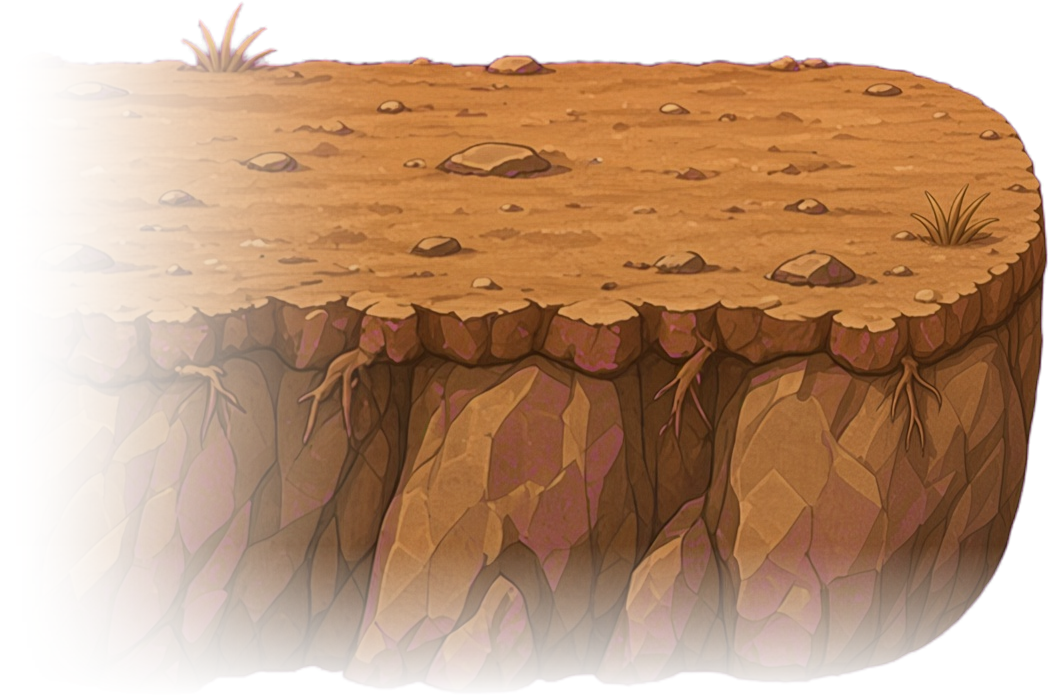
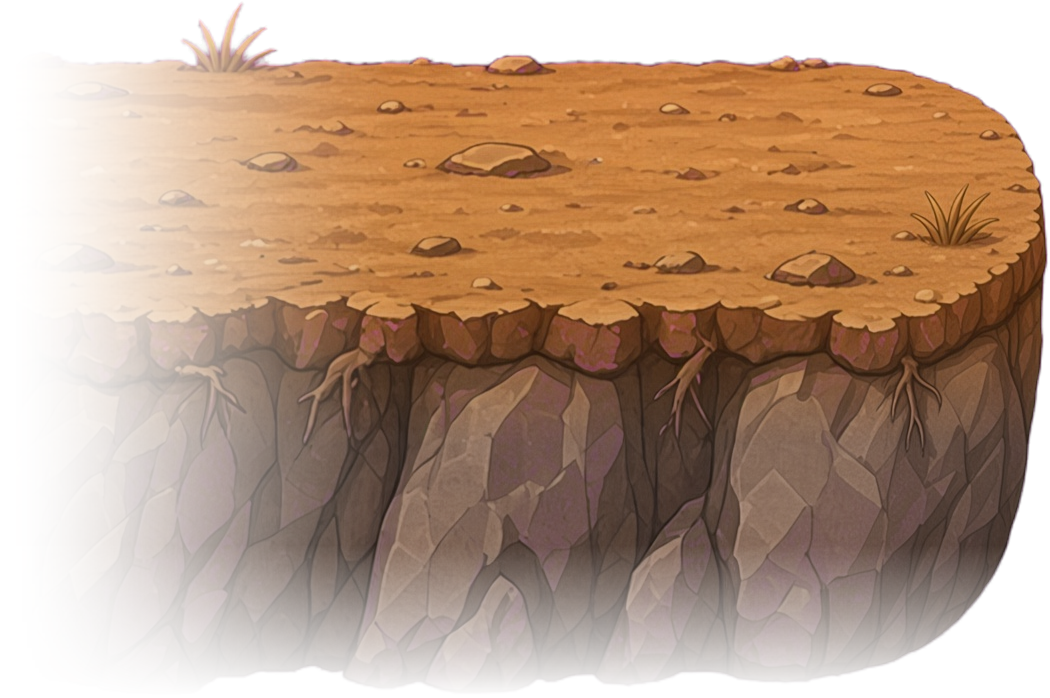
Schacht-hoek: schone bovenrand, koelere klif, doorlopende voorrand
Drie dingen rond de ronde hoek bovenin de schacht:
- de band stopt nu net binnen de kloofrand, zodat zijn rechte kruin niet meer
  boven de ronde hoek uitsteekt (de "rare hoek rechtsboven"); het hoekstuk
  dekt de rest af, met de snede in zijn ondoorzichtige midden;
- de grijze rots in de soil-zone aan de kloofkant wordt op het silhouet van de
  soil weggeknipt, zodat de hoek tegen de lucht rondt in plaats van tegen een
  grijze driehoek. Onder de voorrand blijft alle rots staan, dus de klif wordt
  volledig gesteund (geen doorschijnende plekken);
- de klif van het hoekstuk was te warm/rood naast de grijze wand; tools/
  schacht_hoek.py koelt hem nu met de diepte naar een grijstint, zodat hij op
  de wandrots lijkt. De soil blijft de grondkleur.

Claude-Session: https://claude.ai/code/session_019B4uZSWaKqeYEEdmPZdMnc

Changed region(s): [[0.579, 0.5716, 0.9448, 0.8424], [0.3352, 0.5716, 0.6095, 0.8424], [0.9143, 0.7221, 0.9448, 0.7521]]

diff --git a/amir-king-of-africa.html b/amir-king-of-africa.html
@@ -4443,25 +4443,57 @@ function grotMassa(R, X, Y, ch, scale, groundY, schacht){
   // binnen het silhouet van elk stuk. De tanden komen er in drawGrotten langs (schachtTanden).
   if (schacht){
     const tile = plafondVulTegel(); if (!tile) return;
+    const hd = schachtHoekData(R, X, Y, ch);          // de ronde hoek bovenin
+    const img = schachtHoekPic();
+    const tw = tile.width, th = tile.height, ax = X(0), ay = Y(0);
     for (const u of grotStukken(R)){
       const xl = X(u.c), xr = X(u.e + 1);
       // Geen terras-overstek boven de celrand: bij een gewoon terras steekt het steen tot boven de
       // looplijn uit voor het bovenvlak, maar hier ligt de savanne-kap (schachtKap) als bovenvlak op
-      // de wand. Stak het steen daar bovenuit, dan piekte er een grijze rotsrand boven het gras, over
-      // de hele wandtop. Het steen stopt nu op de celrand (de kaplijn) en de kap dekt het af. Bovenin
-      // dekken de savanneband en het ronde hoekstuk (schachtKap) de rots aan de kloofrand af.
+      // de wand. Het steen stopt op de celrand (de kaplijn) en de kap dekt het af.
       const top = Y(u.r) - ch;
       const diep = u.b === R.n - 1 ? Math.max(Y(u.b), Math.round(groundY)) : Y(u.b);
       const bottom = diep + 4;
-      ctx.save();
-      // De zijkanten blijven recht (geen grotSilPad): de tanden (schachtTanden) zijn hier de afwerking
-      // van de rand en zitten op de celrand. Recht gevuld sluiten de tanden vlak op het steen aan.
-      ctx.beginPath(); ctx.rect(xl, top - 4, xr - xl, bottom - (top - 4)); ctx.clip();
-      const tw = tile.width, th = tile.height, ax = X(0), ay = Y(0);
-      const bx = Math.round(ax - Math.ceil((ax - xl) / tw) * tw);
-      const by = Math.round(ay - Math.ceil((ay - (top - 4)) / th) * th);
-      for (let y = by; y < bottom; y += th) for (let x = bx; x < xr; x += tw) ctx.drawImage(tile, x, y);
-      ctx.restore();
+      const vul = (g, ox, oy) => {
+        const bx = Math.round(ax - Math.ceil((ax - xl) / tw) * tw);
+        const by = Math.round(ay - Math.ceil((ay - (top - 4)) / th) * th);
+        for (let y = by; y < bottom; y += th) for (let x = bx; x < xr; x += tw) g.drawImage(tile, x - ox, y - oy);
+      };
+      // Grenst dit stuk aan de kloof? Dan ligt er in de soil-zone (boven de kruimelige voorrand) aan de
+      // kloofkant een grijze rotsdriehoek naast de ronde hoek. Die knippen we weg op het silhouet van de
+      // soil van het hoekstuk, zodat de hoek tegen de lucht rondt. Onder de voorrand blijft ALLE rots staan
+      // (de klif wordt volledig door rots gesteund, geen doorschijnende plekken).
+      const gapR = hd && img && u.e + 1 < R.kol && !grotVol(R, u.e + 1, u.r);
+      const gapL = hd && img && u.c - 1 >= 0 && !grotVol(R, u.c - 1, u.r);
+      if (gapR || gapL){
+        const ox = Math.round(xl) - 2, oy = Math.round(top - 4) - 2;
+        const cw = Math.ceil(xr - ox) + 4, chh = Math.ceil(bottom - oy) + 4;
+        const rc = document.createElement('canvas'); rc.width = cw; rc.height = chh;
+        const rg = rc.getContext('2d'); vul(rg, ox, oy);
+        const mk = document.createElement('canvas'); mk.width = cw; mk.height = chh;
+        const mg = mk.getContext('2d'); mg.fillStyle = '#fff';
+        const lipY = Math.round(hd.yLip) - oy, aTopY = Math.round(hd.aTop) - oy;
+        mg.fillRect(0, lipY, cw, chh - lipY);         // onder de voorrand: alle rots
+        if (gapR){                                    // kloof rechts: de bandkant is links
+          const sprL = Math.round(xr) - hd.hw - ox;
+          mg.fillRect(0, 0, Math.max(0, sprL), lipY);
+          mg.drawImage(img, 0, 0, SCHACHT_HOEK.w, SCHACHT_HOEK.lip, sprL, aTopY, hd.hw, hd.soilH);
+        }
+        if (gapL){                                    // kloof links: de bandkant is rechts, de soil gespiegeld
+          const sprL = Math.round(xl) - ox;
+          mg.fillRect(sprL + hd.hw, 0, Math.max(0, cw - (sprL + hd.hw)), lipY);
+          mg.save(); mg.translate(sprL + hd.hw, 0); mg.scale(-1, 1);
+          mg.drawImage(img, 0, 0, SCHACHT_HOEK.w, SCHACHT_HOEK.lip, 0, aTopY, hd.hw, hd.soilH);
+          mg.restore();
+        }
+        rg.globalCompositeOperation = 'destination-in'; rg.drawImage(mk, 0, 0);
+        ctx.drawImage(rc, ox, oy);
+      } else {
+        ctx.save();
+        ctx.beginPath(); ctx.rect(xl, top - 4, xr - xl, bottom - (top - 4)); ctx.clip();
+        vul(ctx, 0, 0);
+        ctx.restore();
+      }
     }
     return;
   }
@@ -4651,11 +4683,18 @@ function schachtKap(R, X, Y, ch, scale, cx){
   const band = (EDGE.solid - EDGE.walk) * s;         // zichtbare savanneband
   const bottom = surf + band + ch * 0.8;             // de aarde loopt een stuk door en vervaagt in de rots
   const fade = band * 0.6 + ch * 0.8;                // over dit stuk vervaagt de aarde onderaan
+  // De band stopt net binnen de kloofrand, zodat zijn rechte kruin niet boven de ronde hoek uitsteekt (de
+  // "rare hoek"): het hoekstuk dekt de rest tot de kloofrand af. De snede valt in het ondoorzichtige midden
+  // van de hoek, dus je ziet er niets van. inset is een halve hoekbreedte.
+  const hd = schachtHoekData(R, X, Y, ch);
+  const inset = hd ? hd.hw * 0.5 : 0;
   // De savanne eerst op een los canvas tekenen en daar de onderkant wegvagen (destination-out), en dat dan
   // overzetten: zo komt de ROTS eronder tevoorschijn. Een destination-out op het hoofdcanvas zou door de
   // rots heen naar de lucht gummen, en dat gaf de lichte band aan de voet van de kap.
   for (const [c0, c1] of grotReeksH(R, tr, (c, r) => grotVol(R, c, r))){
-    const xl = Math.round(X(c0)), xr = Math.round(X(c1 + 1));
+    let xl = Math.round(X(c0)), xr = Math.round(X(c1 + 1));
+    if (hd && c1 + 1 < R.kol && !grotVol(R, c1 + 1, tr)) xr -= inset;   // kloof rechts: de hoek neemt het over
+    if (hd && c0 - 1 >= 0 && !grotVol(R, c0 - 1, tr)) xl += inset;      // kloof links
     const w = xr - xl, hh = Math.round(bottom - top + 6);
     if (w <= 0 || hh <= 0) continue;
     const cv2 = document.createElement('canvas'); cv2.width = w; cv2.height = hh;

diff --git a/tools/schacht_hoek.py b/tools/schacht_hoek.py
@@ -94,6 +94,19 @@ def main():
         for x in range(w):
             r, g, b, a = px[x, y]
             if a: px[x, y] = (round(r * rr[0]), round(g * rr[1]), round(b * rr[2]), a)
+    # de klif (onder de lip) is te warm/rood naast de grijze schachtwand: trek hem naar een koele grijstint,
+    # oplopend met de diepte zodat de soil-rand bij de lip ongemoeid blijft. mengen naar de luminantie met een
+    # koele weging (minder rood, iets meer blauw), zodat de klif op de grijze rots van de wand lijkt.
+    for y in range(lip, h):
+        amt = 0.52 * max(0.0, min(1.0, (y - lip) / (0.35 * (h - lip))))   # 0 bij de lip -> vol dieper
+        for x in range(w):
+            r, g, b, a = px[x, y]
+            if not a: continue
+            lum = 0.3 * r + 0.59 * g + 0.11 * b
+            gr = (lum * 0.90, lum * 0.90, lum * 1.02)                     # koele grijstint
+            px[x, y] = (round(r * (1 - amt) + gr[0] * amt),
+                        round(g * (1 - amt) + gr[1] * amt),
+                        round(b * (1 - amt) + gr[2] * amt), a)
     # linkerrand ruim laten overlopen in de band (brede, zachte cross-fade met een smoothstep-curve)
     fw = int(w * 0.40)
     for x in range(fw):
